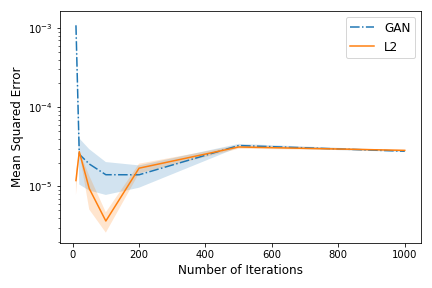
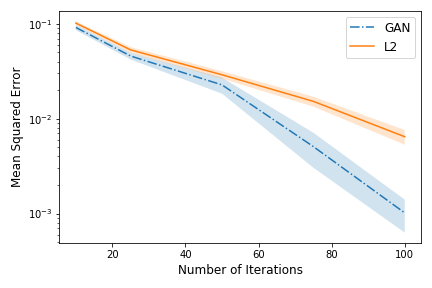
update POS results

diff --git a/denn/config.py b/denn/config.py
@@ -21,8 +21,8 @@ CSV_DIR = '/Users/dylanrandle/Documents/Harvard/research/denn/experiments/csvs/'
 
 exp_problem = pb.Exponential(n=100, perturb=True, t_max=10)
 sho_problem = pb.SimpleOscillator(n=100, perturb=True, t_max=4*np.pi)
-nlo_problem = pb.NonlinearOscillator(n=200, perturb=True, t_max=8*np.pi)
-pos_problem = pb.PoissonEquation(nx=40, ny=40, perturb=True)
+nlo_problem = pb.NonlinearOscillator(n=1000, perturb=True, t_max=8*np.pi)
+pos_problem = pb.PoissonEquation(nx=40, ny=40, f=10, perturb=True)
 
 # ==========================
 # GAN
@@ -53,12 +53,12 @@ pos_problem = pb.PoissonEquation(nx=40, ny=40, perturb=True)
 gan_kwargs = dict(
     method='unsupervised',
     niters=1000,
-    g_lr=1e-3,
+    g_lr=2e-4,
     g_betas=(0., 0.9),
-    d_lr=1e-3,
+    d_lr=2e-4,
     d_betas=(0., 0.9),
     lr_schedule=True,
-    gamma=0.999,
+    gamma=0.995,
     obs_every=1,
     d1=1.,
     d2=1.,
@@ -74,10 +74,10 @@ gan_kwargs = dict(
 
 # Generator MLP
 gen_kwargs = dict(
-    in_dim=1,
+    in_dim=2,
     out_dim=1,
     n_hidden_units=64,
-    n_hidden_layers=8,
+    n_hidden_layers=4,
     activation=nn.Tanh(),
     residual=True,
     regress=True,
@@ -86,10 +86,10 @@ gen_kwargs = dict(
 
 # Discriminator MLP
 disc_kwargs = dict(
-    in_dim=2,
+    in_dim=3,
     out_dim=1,
     n_hidden_units=64,
-    n_hidden_layers=12,
+    n_hidden_layers=4,
     activation=nn.Tanh(),
     residual=True,
     regress=True,        # true for WGAN, false otherwise
@@ -107,8 +107,8 @@ disc_kwargs = dict(
 # L2 Algorithm
 L2_kwargs = dict(
     method='unsupervised',
-    niters=1000,
-    lr=1e-4,
+    niters=10,
+    lr=1e-3,
     betas=(0., 0.9),
     lr_schedule=True,
     gamma=0.999,
@@ -125,7 +125,7 @@ L2_mlp_kwargs = dict(
     in_dim=2,
     out_dim=1,
     n_hidden_units=64,
-    n_hidden_layers=8,
+    n_hidden_layers=2,
     activation=nn.Tanh(),
     residual=True,
     regress=True,
@@ -235,11 +235,19 @@ gan_pos_hyper_space = dict(
 
 gan_pos_niters = dict(
      # gan_kwargs
-     gan_niters = [10000, 25000, 50000, 75000, 100000],
+     gan_niters = [10, 25, 50, 75, 100],
      # disc_kwargs
      disc_n_hidden_units = [64],
-     disc_n_hidden_layers = [8],
+     disc_n_hidden_layers = [4],
      # gen_kwargs
      gen_n_hidden_units = [64],
-     gen_n_hidden_layers = [4],
+     gen_n_hidden_layers = [2],
+)
+
+L2_pos_niters = dict(
+     # gan_kwargs
+     train_niters = [10, 25, 50, 75, 100],
+     # model_kwargs
+     model_n_hidden_units=[64],
+     model_n_hidden_layers=[2],
 )
